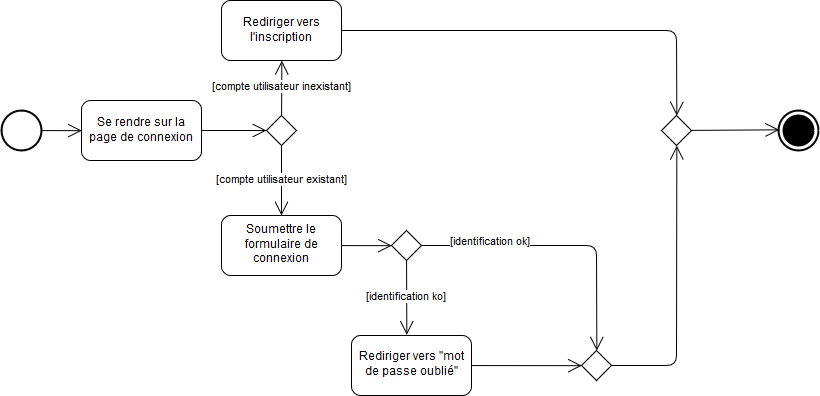
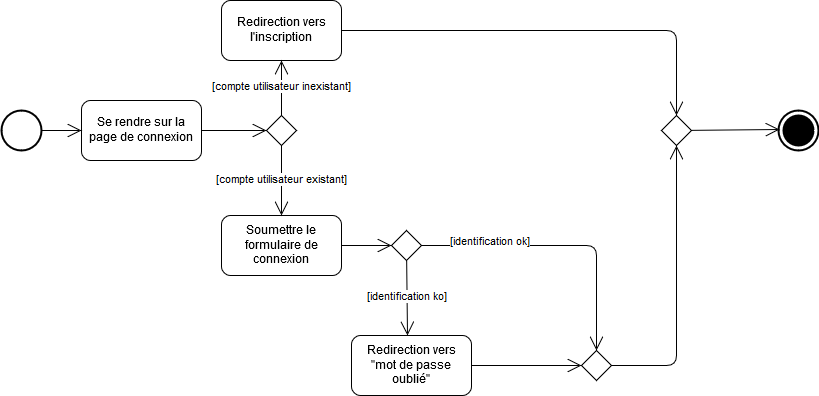
01-03 mdp oublié : diag activité + 01-01/01-02 correctifs diags activité

diff --git a/packages/01-authentification/03-mot-de-passe-oublié/README.md b/packages/01-authentification/03-mot-de-passe-oublié/README.md
@@ -1,0 +1,1 @@
+![Diagramme d'activité pour l'UC mot de passe oublié](../../../diagrammes/packages/01-authentification/03-mot-de-passe-oublié/01-03-diag-activité.png)
